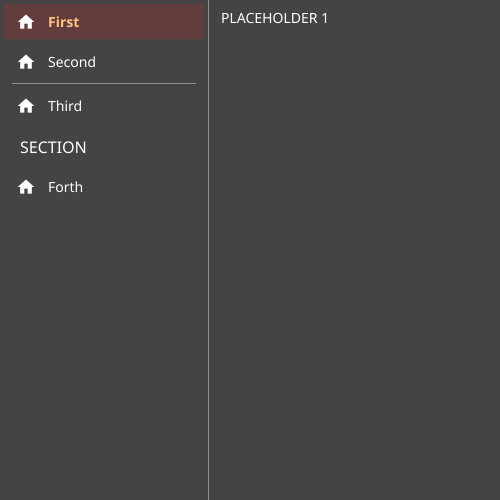
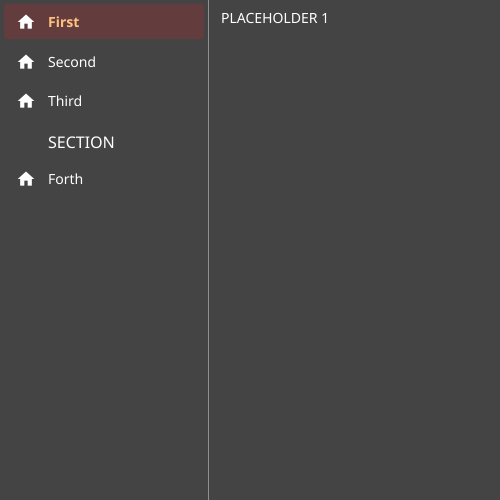
feat: disable navdrawer separator feature

Changed region(s): [[0.03, 0.27, 0.24, 0.39], [0.09, 0.18, 0.18, 0.24], [0.03, 0.18, 0.06, 0.24]]

diff --git a/internal/widget/navdrawer.go b/internal/widget/navdrawer.go
@@ -24,7 +24,7 @@ type navItemVariant uint
 const (
 	navUndefined navItemVariant = iota
 	navPage
-	navSectionLabel
+	navSectionLabel // TODO: Maybe remove when no longer used?
 	navSeparator
 )
 
@@ -70,8 +70,7 @@ func (w *NavDrawer) ScrollToTop() {
 
 func (w *NavDrawer) makeList() *widget.List {
 	p := w.Theme().Size(theme.SizeNamePadding)
-	var list *widget.List
-	list = widget.NewList(
+	list := widget.NewList(
 		func() int {
 			return len(w.items)
 		},
@@ -174,10 +173,10 @@ func (w *NavDrawer) makeList() *widget.List {
 				spacer.Hide()
 				updateBadge()
 			}
-			fyne.Do(func() {
-				// TODO: Maybe remove?
-				list.SetItemHeight(id, co.(*fyne.Container).MinSize().Height) // needed for separators
-			})
+			// fyne.Do(func() {
+			// 	// TODO: Maybe remove?
+			// 	list.SetItemHeight(id, co.(*fyne.Container).MinSize().Height) // needed for separators
+			// })
 		},
 	)
 	list.OnSelected = func(id widget.ListItemID) {
@@ -337,9 +336,9 @@ func NewNavSectionLabel(text string) *NavItem {
 	return it
 }
 
-func NewNavSeparator() *NavItem {
-	return newNavItem(navSeparator)
-}
+// func NewNavSeparator() *NavItem {
+// 	return newNavItem(navSeparator)
+// }
 
 func newNavItem(variant navItemVariant) *NavItem {
 	it := &NavItem{

diff --git a/internal/widget/navdrawer_test.go b/internal/widget/navdrawer_test.go
@@ -33,7 +33,7 @@ func TestNavDrawer_CanCreateFull(t *testing.T) {
 	drawer := iwidget.NewNavDrawer(
 		iwidget.NewNavPage("First", theme.HomeIcon(), widget.NewLabel("PLACEHOLDER 1")),
 		iwidget.NewNavPage("Second", theme.HomeIcon(), widget.NewLabel("PLACEHOLDER 2")),
-		iwidget.NewNavSeparator(),
+		// iwidget.NewNavSeparator(),
 		iwidget.NewNavPage("Third", theme.HomeIcon(), widget.NewLabel("PLACEHOLDER 3")),
 		iwidget.NewNavSectionLabel("Section"),
 		iwidget.NewNavPage("Forth", theme.HomeIcon(), widget.NewLabel("PLACEHOLDER 4")),
